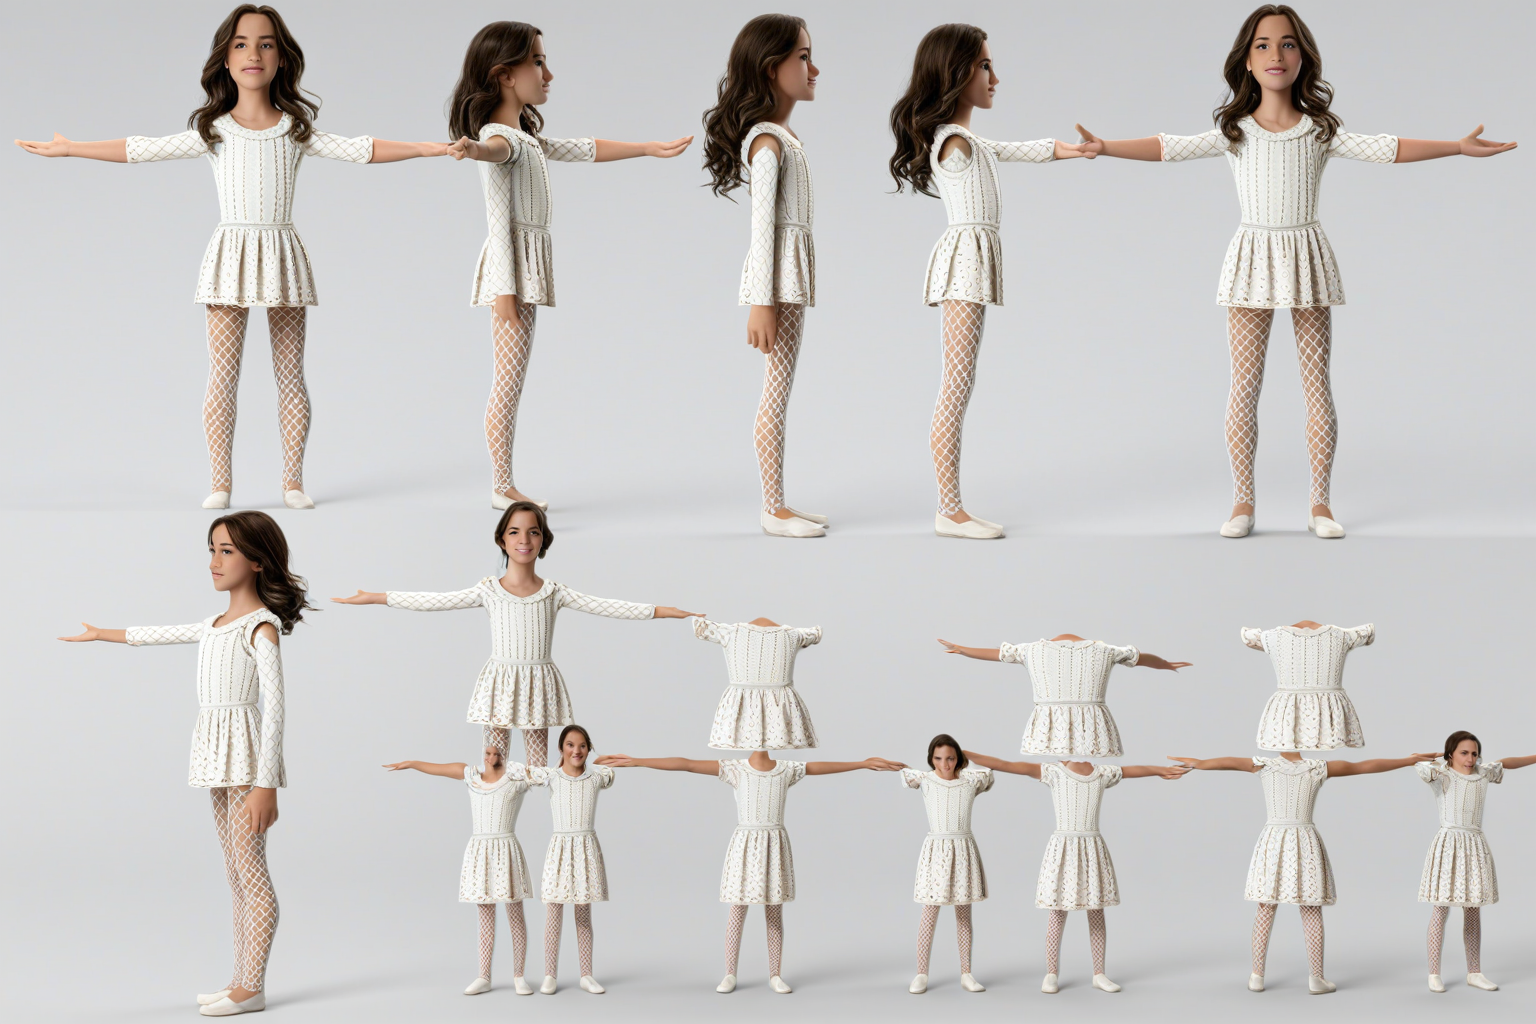
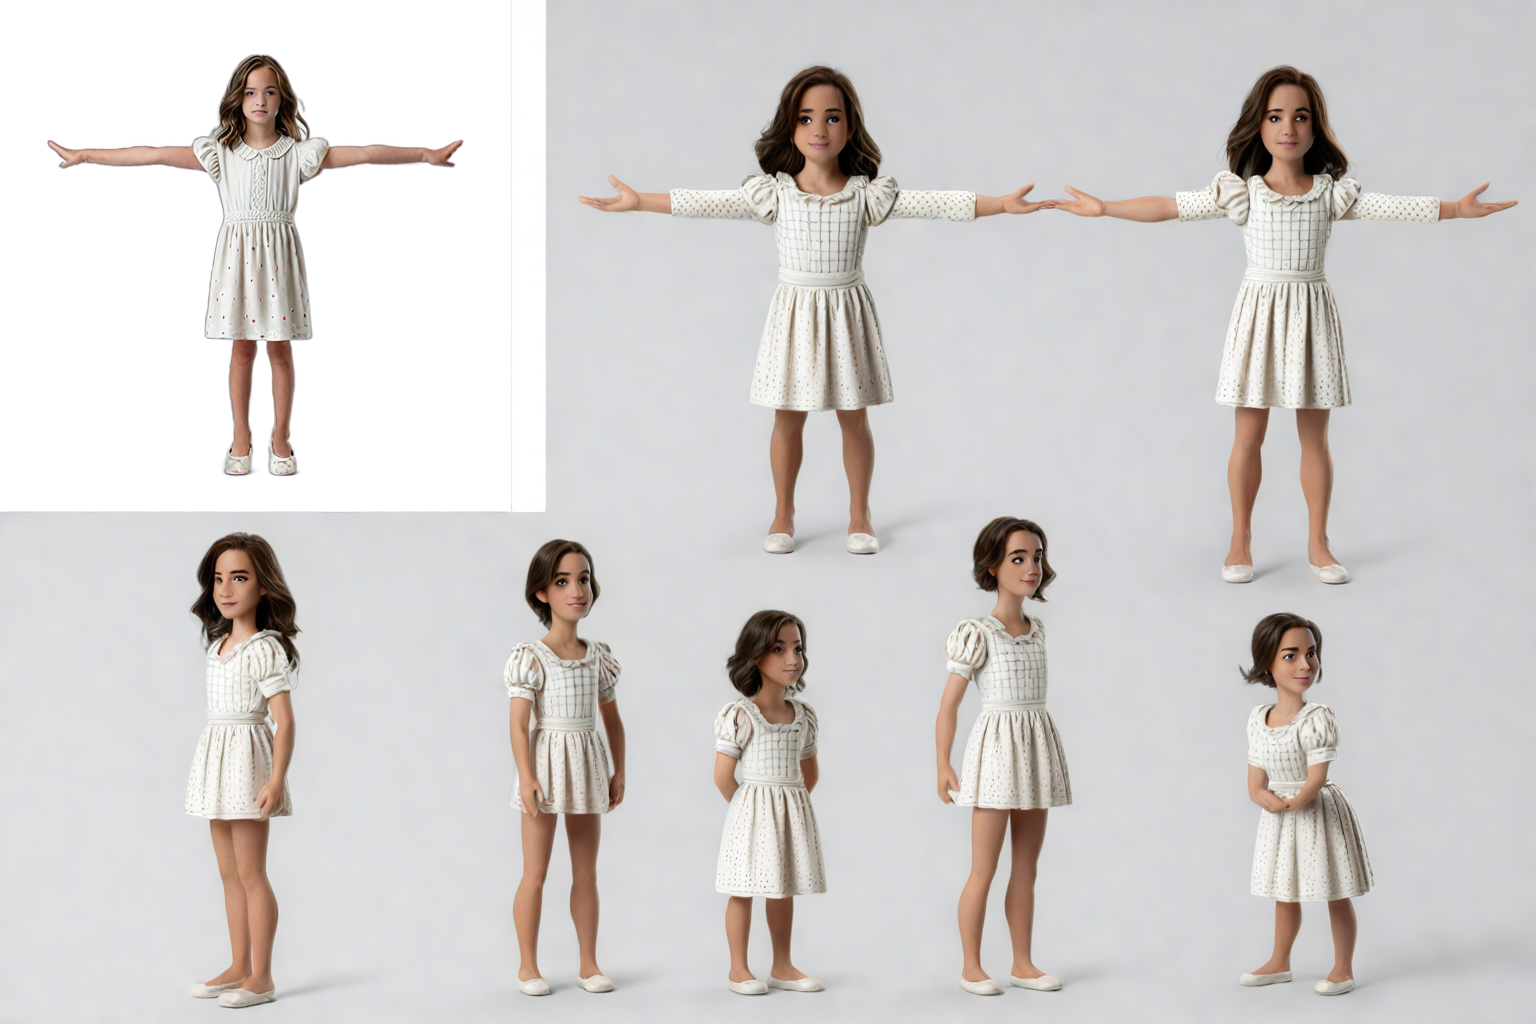
voie E v2 sheet inpaint: test \u00e9chec - SDXL ne tient pas la grille 3x2 m\u00eame avec front cell ancr\u00e9e

diff --git a/scripts/fabmesh_sheet_runner.py b/scripts/fabmesh_sheet_runner.py
@@ -167,16 +167,18 @@ def build_views_json(out_dir, mesh_path,
 def load_pipeline():
     from diffusers import (
         ControlNetModel,
-        StableDiffusionXLControlNetPipeline,
+        StableDiffusionXLControlNetInpaintPipeline,
     )
     from transformers import CLIPVisionModelWithProjection
-    log('loading SDXL + ControlNet OpenPose + IPAdapter')
+    log('loading SDXL ControlNet INPAINT OpenPose + IPAdapter')
     image_encoder = CLIPVisionModelWithProjection.from_pretrained(
         'h94/IP-Adapter', subfolder='models/image_encoder',
         torch_dtype=torch.float16)
     controlnet = ControlNetModel.from_pretrained(
         'xinsir/controlnet-openpose-sdxl-1.0', torch_dtype=torch.float16)
-    pipe = StableDiffusionXLControlNetPipeline.from_pretrained(
+    # Use the Inpaint variant of the CN pipeline so we can lock the
+    # front photo as cell 0 and only inpaint the 5 other cells.
+    pipe = StableDiffusionXLControlNetInpaintPipeline.from_pretrained(
         'SG161222/RealVisXL_V4.0',
         controlnet=controlnet,
         torch_dtype=torch.float16, variant='fp16',
@@ -258,25 +260,46 @@ def run(mesh_path, front_image, out_dir,
     ref_img = preprocess_ref(Image.open(front_image), size=1024)
     ref_img.save(os.path.join(out_dir, '_reference.png'))
 
+    # Build init sheet: cell 0 (front, top-left) = the front photo
+    # rescaled to CELL×CELL. Other 5 cells = neutral grey (will be
+    # inpainted from the skeleton + IPA reference).
+    init_sheet = Image.new('RGB', (SHEET_W, SHEET_H), (160, 160, 160))
+    front_cell = ref_img.resize((CELL, CELL), Image.LANCZOS)
+    init_sheet.paste(front_cell, (0, 0))
+    init_sheet.save(os.path.join(out_dir, '_init_sheet.png'))
+
+    # Build mask: 0 = keep (front cell), 255 = inpaint (5 other cells).
+    # 8px border around the front cell stays at 0 too, so the model
+    # has a clean "anchor" to reference from.
+    mask = Image.new('L', (SHEET_W, SHEET_H), 255)
+    from PIL import ImageDraw
+    md = ImageDraw.Draw(mask)
+    md.rectangle([0, 0, CELL - 1, CELL - 1], fill=0)
+    mask.save(os.path.join(out_dir, '_inpaint_mask.png'))
+
     pipe = load_pipeline()
     pipe.set_ip_adapter_scale(ip_scale)
 
-    log(f'diffusing 1 sheet @ {SHEET_W}x{SHEET_H}, '
+    log(f'diffusing 1 INPAINT sheet @ {SHEET_W}x{SHEET_H}, '
         f'steps={num_steps} cn={cn_scale} ip={ip_scale}')
+    log(f'cell 0 LOCKED to front photo, cells 1-5 inpainted')
     t0 = time.time()
     gen = torch.Generator('cuda').manual_seed(int(seed))
     sheet = pipe(
         prompt=SHEET_PROMPT,
         negative_prompt=SHEET_NEG,
-        image=skel_sheet,
+        image=init_sheet,
+        mask_image=mask,
+        control_image=skel_sheet,
         controlnet_conditioning_scale=cn_scale,
         ip_adapter_image=ref_img,
+        strength=0.99,                # high — fill the masked area
         num_inference_steps=num_steps,
         guidance_scale=guidance,
         height=SHEET_H, width=SHEET_W,
         generator=gen,
     ).images[0]
-    log(f'sheet diffusion done in {time.time()-t0:.1f}s')
+    log(f'sheet inpaint done in {time.time()-t0:.1f}s')
 
     sheet.save(os.path.join(out_dir, '_sheet_raw.png'))
 
